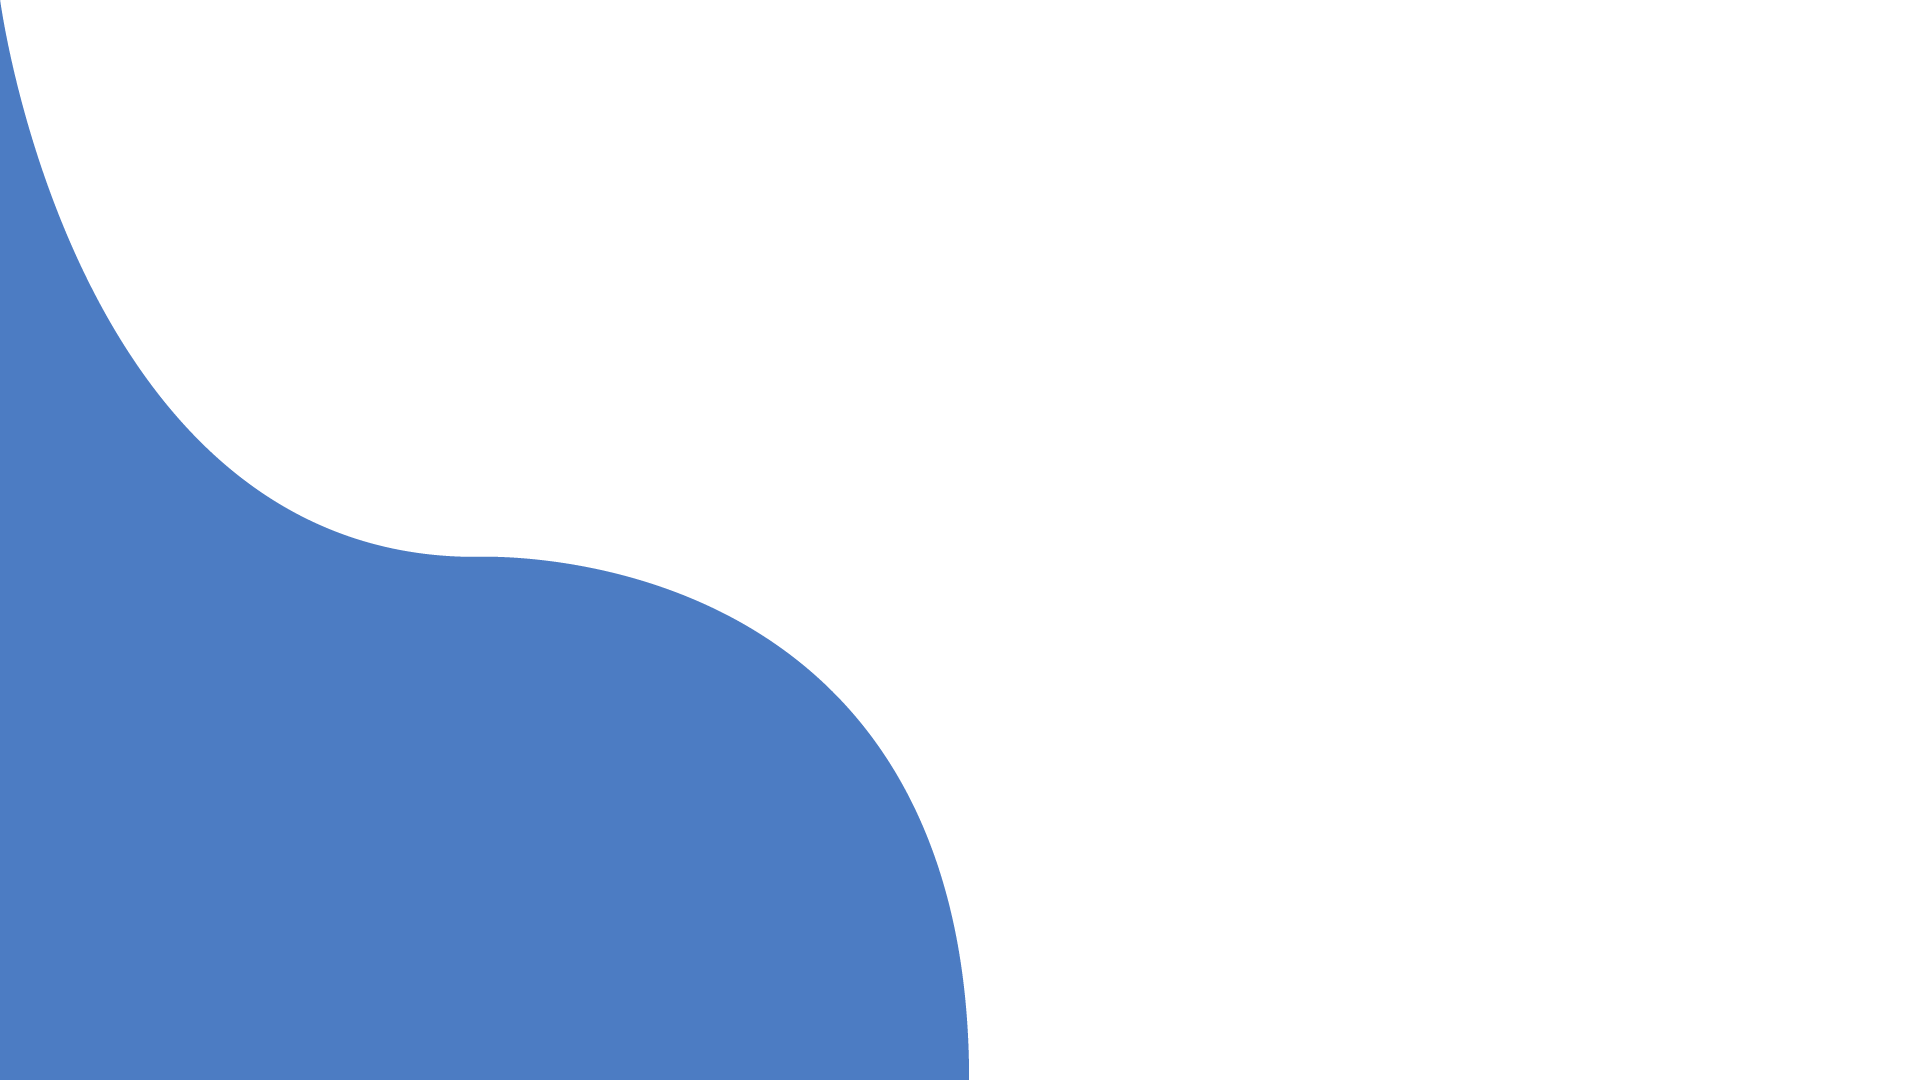
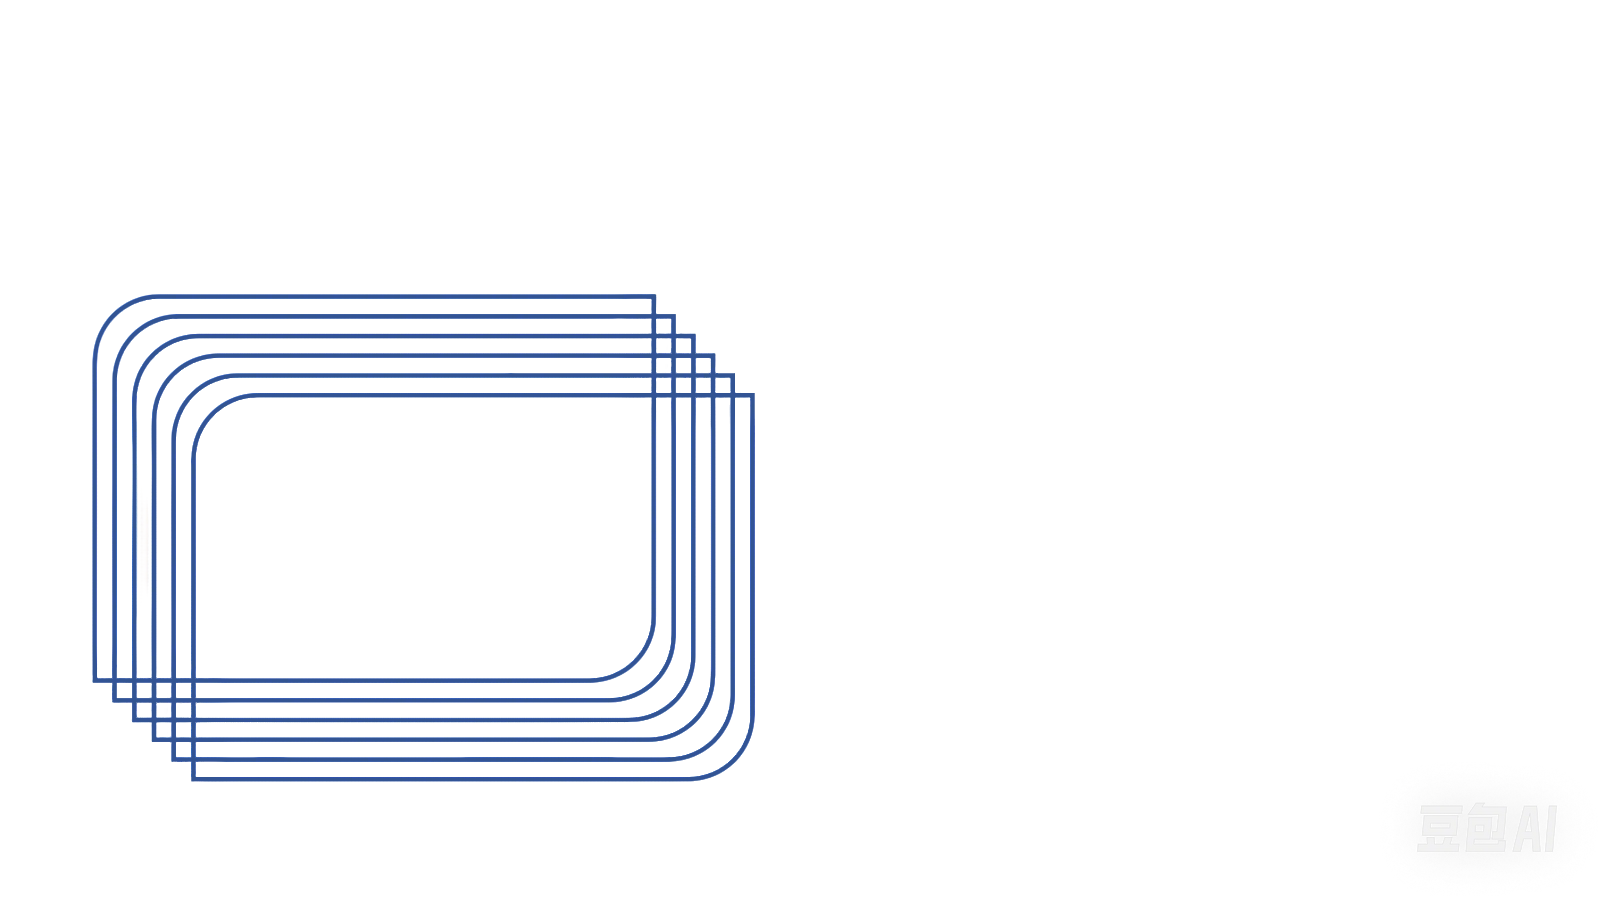
日志管理部分修改完毕；

Changed region(s): [[0.0, 0.0311, 0.5312, 1.0]]

diff --git a/bixi-ui/src/views/admin/log/index.vue b/bixi-ui/src/views/admin/log/index.vue
@@ -3,8 +3,8 @@
 		<div class="layout-padding-auto layout-padding-view">
 			<el-row class="ml10" v-show="showSearch">
 				<el-form :inline="true" :model="state.queryForm" @keyup.enter="getDataList" ref="queryRef">
-					<el-form-item :label="$t('syslog.logType')" prop="logType">
-						<el-select :placeholder="$t('syslog.inputLogTypeTip')" class="w100" clearable v-model="state.queryForm.logType">
+					<el-form-item :label="$t('syslog.type')" prop="type">
+						<el-select :placeholder="$t('syslog.inputLogTypeTip')" class="w100" clearable v-model="state.queryForm.type">
 							<el-option :key="item.value" :label="item.label" :value="item.value" v-for="item in log_type" />
 						</el-select>
 					</el-form-item>
@@ -50,9 +50,9 @@
 			>
 				<el-table-column align="center" type="selection" width="40" />
 				<el-table-column :label="$t('syslog.index')" type="index" width="60" />
-				<el-table-column :label="$t('syslog.logType')" show-overflow-tooltip>
+				<el-table-column :label="$t('syslog.type')" show-overflow-tooltip>
 					<template #default="scope">
-						<dict-tag :options="log_type" :value="scope.row.logType"></dict-tag>
+						<dict-tag :options="log_type" :value="scope.row.type"></dict-tag>
 					</template>
 				</el-table-column>
 				<el-table-column :label="$t('syslog.title')" prop="title" show-overflow-tooltip></el-table-column>
@@ -60,7 +60,7 @@
 				<el-table-column :label="$t('syslog.method')" prop="method" show-overflow-tooltip></el-table-column>
 				<el-table-column :label="$t('syslog.time')" prop="time" show-overflow-tooltip>
 					<template #default="scope">
-						<span v-if="scope.row.time">{{scope.row.time}}/ms</span>
+						<span v-if="scope.row.time">{{scope.row.time}}ms</span>
 					</template>
 				</el-table-column>
 				<el-table-column :label="$t('syslog.createTime')" prop="createTime" show-overflow-tooltip sortable="custom" width="200"></el-table-column>
@@ -108,7 +108,7 @@ const multiple = ref(true);
 
 const state: BasicTableProps = reactive<BasicTableProps>({
 	queryForm: {
-		logType: '',
+		type: '',
 		createTime: '',
 	},
 	selectObjs: [],

diff --git a/bixi-ui/src/views/admin/log/detail.vue b/bixi-ui/src/views/admin/log/detail.vue
@@ -9,7 +9,7 @@
       <el-descriptions-item :label="$t('syslog.method')">{{ data.method }}</el-descriptions-item>
       <el-descriptions-item :label="$t('syslog.ua')">{{ data.userAgent }}</el-descriptions-item>
       <el-descriptions-item :label="$t('syslog.serviceId')">{{ data.serviceId }}</el-descriptions-item>
-      <el-descriptions-item :label="$t('syslog.time')">{{ data.time }}/ms</el-descriptions-item>
+      <el-descriptions-item :label="$t('syslog.time')">{{ data.time }}ms</el-descriptions-item>
       <el-descriptions-item :label="$t('syslog.params')" v-if="data.params">
         <code-editor v-model="data.params" theme="darcula" height="100" mode="go"></code-editor>
       </el-descriptions-item>

diff --git a/bixi-ui/src/views/login/index.vue b/bixi-ui/src/views/login/index.vue
@@ -32,7 +32,7 @@
 <script setup lang="ts" name="loginIndex">
 import { useThemeConfig } from '/@/stores/themeConfig';
 import { NextLoading } from '/@/utils/loading';
-import illustration from '/@/assets/login/login_bg.svg';
+import illustration from '/@/assets/login/login_bg.png';
 import bg from '/@/assets/login/bg.png';
 import miniQr from '/@/assets/login/mini_qr.png';
 import { useI18n } from 'vue-i18n';

diff --git a/bixi-ui/src/views/admin/log/i18n/zh-cn.ts b/bixi-ui/src/views/admin/log/i18n/zh-cn.ts
@@ -1,7 +1,7 @@
 export default {
     syslog: {
         index: '#',
-        logType: '类型',
+        type: '类型',
         title: '标题',
         remoteAddr: 'IP地址',
         method: '请求方式',

diff --git a/bixi-common/bixi-common-log/src/main/java/com/lotus/bixi/common/log/util/SysLogUtils.java b/bixi-common/bixi-common-log/src/main/java/com/lotus/bixi/common/log/util/SysLogUtils.java
@@ -54,12 +54,11 @@ public class SysLogUtils {
         HttpServletRequest request = ((ServletRequestAttributes) Objects
                 .requireNonNull(RequestContextHolder.getRequestAttributes())).getRequest();
         SysLogEventSource sysLog = new SysLogEventSource();
-        sysLog.setLogType(LogTypeEnum.NORMAL.getType());
+        sysLog.setType(LogTypeEnum.NORMAL.getType());
         sysLog.setRequestUri(URLUtil.getPath(request.getRequestURI()));
         sysLog.setMethod(request.getMethod());
         sysLog.setRemoteAddr(JakartaServletUtil.getClientIP(request));
         sysLog.setUserAgent(request.getHeader(HttpHeaders.USER_AGENT));
-        sysLog.setCreateBy(getUsername());
         sysLog.setServiceId(SpringUtil.getProperty("spring.application.name"));
 
         // get 参数脱敏
@@ -70,18 +69,6 @@ public class SysLogUtils {
         return sysLog;
     }
 
-    /**
-     * 获取用户名称
-     *
-     * @return username
-     */
-    private String getUsername() {
-        Authentication authentication = SecurityContextHolder.getContext().getAuthentication();
-        if (authentication == null) {
-            return null;
-        }
-        return authentication.getName();
-    }
 
     /**
      * 获取spel 定义的参数值

diff --git a/bixi-auth/src/main/java/com/lotus/bixi/auth/support/handler/BixiAuthenticationFailureEventHandler.java b/bixi-auth/src/main/java/com/lotus/bixi/auth/support/handler/BixiAuthenticationFailureEventHandler.java
@@ -65,7 +65,7 @@ public class BixiAuthenticationFailureEventHandler implements AuthenticationFail
         log.info("用户：{} 登录失败，异常：{}", username, exception.getLocalizedMessage());
         SysLog logVo = SysLogUtils.getSysLog();
         logVo.setTitle("登录失败");
-        logVo.setLogType(LogTypeEnum.ERROR.getType());
+        logVo.setType(LogTypeEnum.ERROR.getType());
         logVo.setException(exception.getLocalizedMessage());
         // 发送异步日志事件
         String startTimeStr = request.getHeader(CommonConstants.REQUEST_START_TIME);
@@ -74,7 +74,6 @@ public class BixiAuthenticationFailureEventHandler implements AuthenticationFail
             Long endTime = System.currentTimeMillis();
             logVo.setTime(endTime - startTime);
         }
-        logVo.setCreateBy(username);
         SpringContextHolder.publishEvent(new SysLogEvent(logVo));
         // 写出错误信息
         sendErrorResponse(request, response, exception);

diff --git a/bixi-module/bixi-upms-biz/src/main/java/com/lotus/bixi/upms/service/impl/SysLogServiceImpl.java b/bixi-module/bixi-upms-biz/src/main/java/com/lotus/bixi/upms/service/impl/SysLogServiceImpl.java
@@ -82,8 +82,8 @@ public class SysLogServiceImpl extends ServiceImpl<SysLogMapper, SysLog> impleme
      */
     private LambdaQueryWrapper buildQuery(SysLogDTO sysLog) {
         LambdaQueryWrapper<SysLog> wrapper = Wrappers.lambdaQuery();
-        if (StrUtil.isNotBlank(sysLog.getLogType())) {
-            wrapper.eq(SysLog::getLogType, sysLog.getLogType());
+        if (StrUtil.isNotBlank(sysLog.getType())) {
+            wrapper.eq(SysLog::getType, sysLog.getType());
         }
 
         if (ArrayUtil.isNotEmpty(sysLog.getCreateTime())) {

diff --git a/bixi-auth/src/main/java/com/lotus/bixi/auth/support/handler/BixiLogoutSuccessEventHandler.java b/bixi-auth/src/main/java/com/lotus/bixi/auth/support/handler/BixiLogoutSuccessEventHandler.java
@@ -70,7 +70,6 @@ public class BixiLogoutSuccessEventHandler implements ApplicationListener<Logout
         if (authentication instanceof PreAuthenticatedAuthenticationToken) {
             logVo.setServiceId(authentication.getCredentials().toString());
         }
-        logVo.setCreateBy(authentication.getName());
         SpringContextHolder.publishEvent(new SysLogEvent(logVo));
     }
 

diff --git a/bixi-auth/src/main/java/com/lotus/bixi/auth/support/handler/BixiAuthenticationSuccessEventHandler.java b/bixi-auth/src/main/java/com/lotus/bixi/auth/support/handler/BixiAuthenticationSuccessEventHandler.java
@@ -81,7 +81,6 @@ public class BixiAuthenticationSuccessEventHandler implements AuthenticationSucc
                 Long endTime = System.currentTimeMillis();
                 logVo.setTime(endTime - startTime);
             }
-            logVo.setCreateBy(userInfo.getName());
             SpringContextHolder.publishEvent(new SysLogEvent(logVo));
         }
 

diff --git a/bixi-common/bixi-common-log/src/main/java/com/lotus/bixi/common/log/aspect/SysLogAspect.java b/bixi-common/bixi-common-log/src/main/java/com/lotus/bixi/common/log/aspect/SysLogAspect.java
@@ -76,7 +76,7 @@ public class SysLogAspect {
         try {
             obj = point.proceed();
         } catch (Exception e) {
-            logVo.setLogType(LogTypeEnum.ERROR.getType());
+            logVo.setType(LogTypeEnum.ERROR.getType());
             logVo.setException(e.getMessage());
             throw e;
         } finally {

diff --git a/bixi-module/bixi-upms-api/src/main/java/com/lotus/bixi/upms/api/dto/SysLogDTO.java b/bixi-module/bixi-upms-api/src/main/java/com/lotus/bixi/upms/api/dto/SysLogDTO.java
@@ -25,7 +25,7 @@ public class SysLogDTO {
      * 日志类型
      */
     @NotBlank(message = "日志类型不能为空")
-    private String logType;
+    private String type;
 
     /**
      * 日志标题
